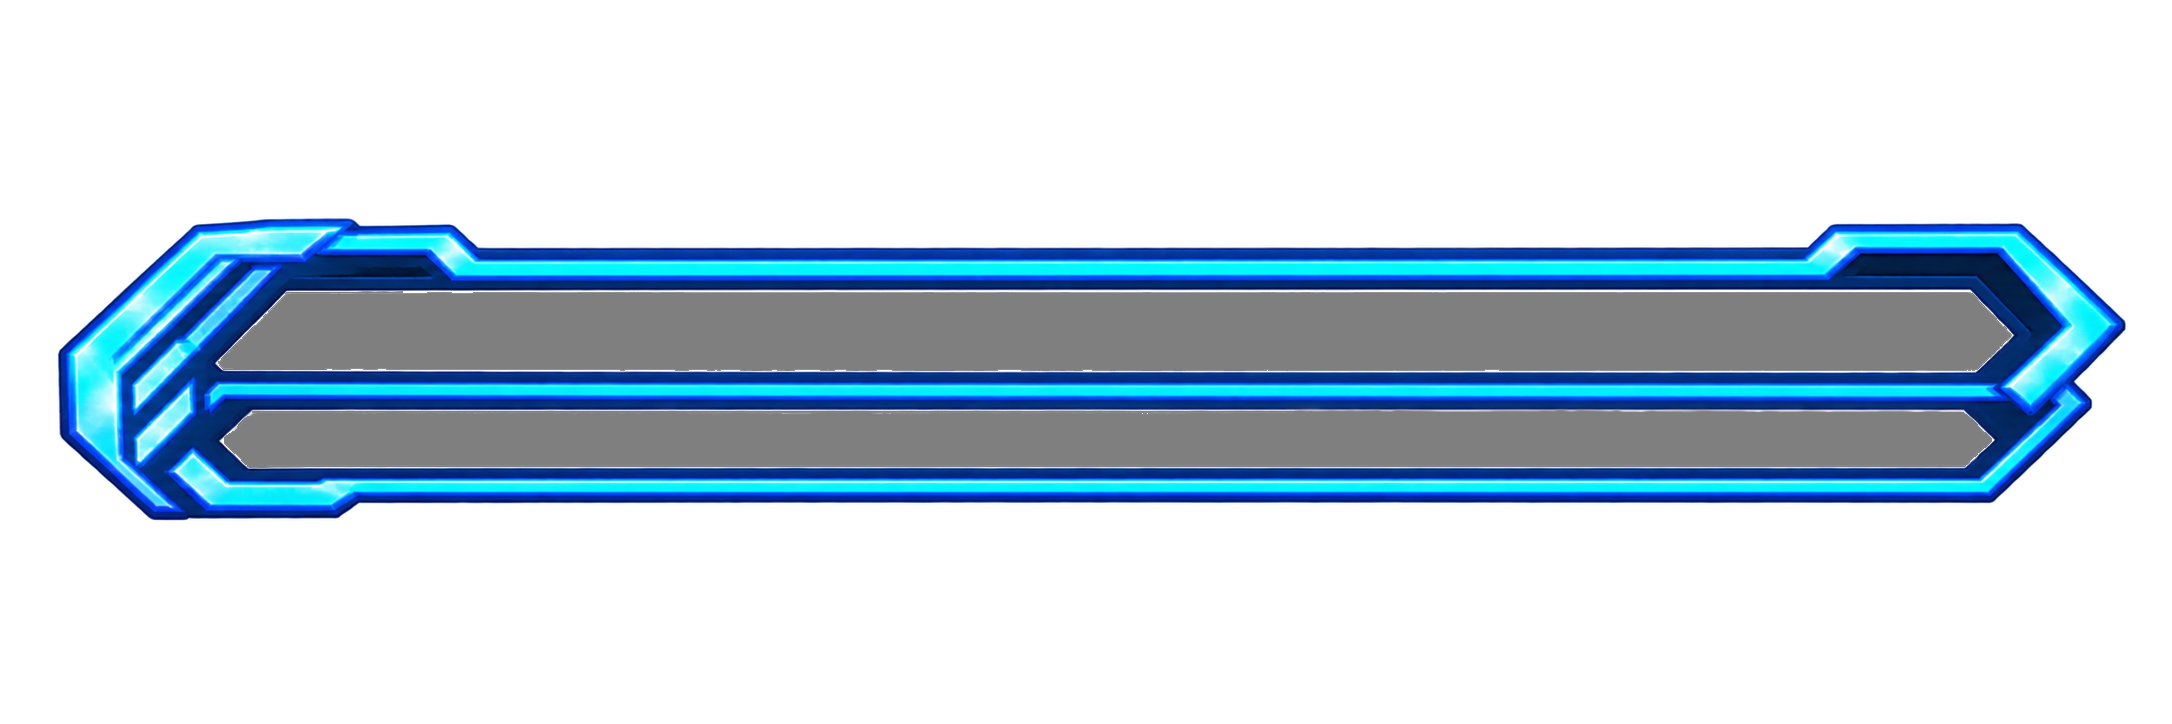
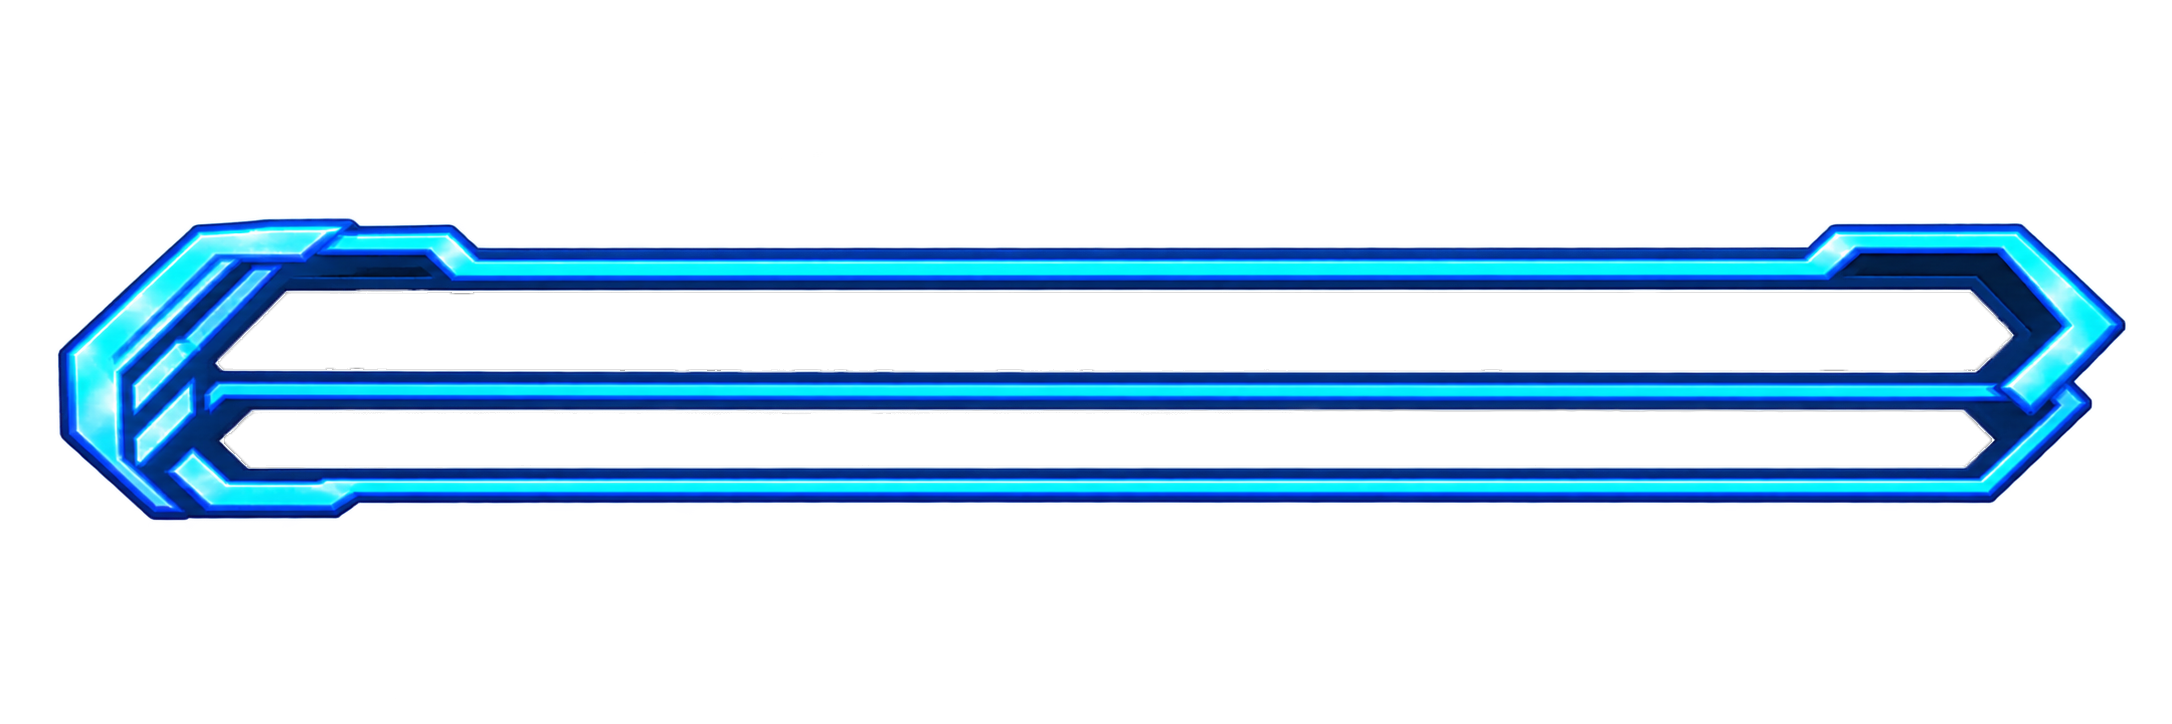
HPUIの調整

Changed region(s): [[0.0925, 0.547, 0.9254, 0.6685], [0.0925, 0.395, 0.9254, 0.5166]]

diff --git a/3DLv3/Project/GameProgramming64/CUi.h b/3DLv3/Project/GameProgramming64/CUi.h
@@ -53,4 +53,5 @@ private:
 	CTexture mHpUI;
 	CTexture mScoreUI;
 	CTexture mSkillUI;
+	CTexture mTimeUI;
 };
